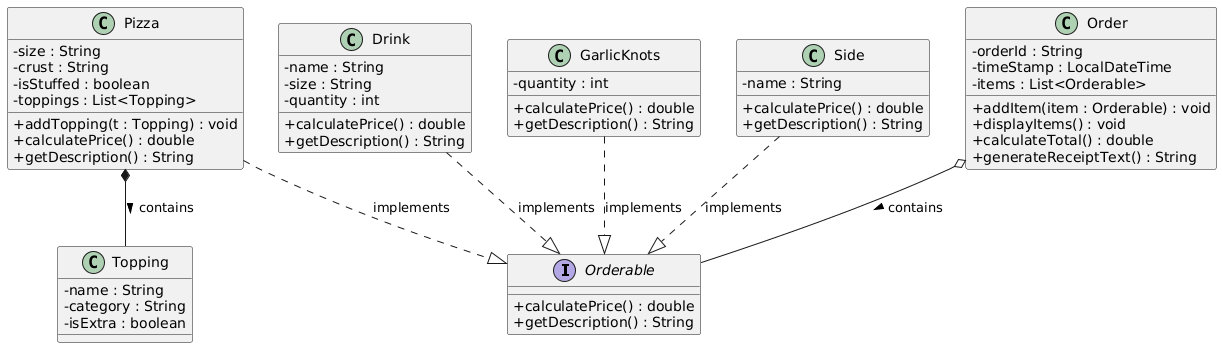
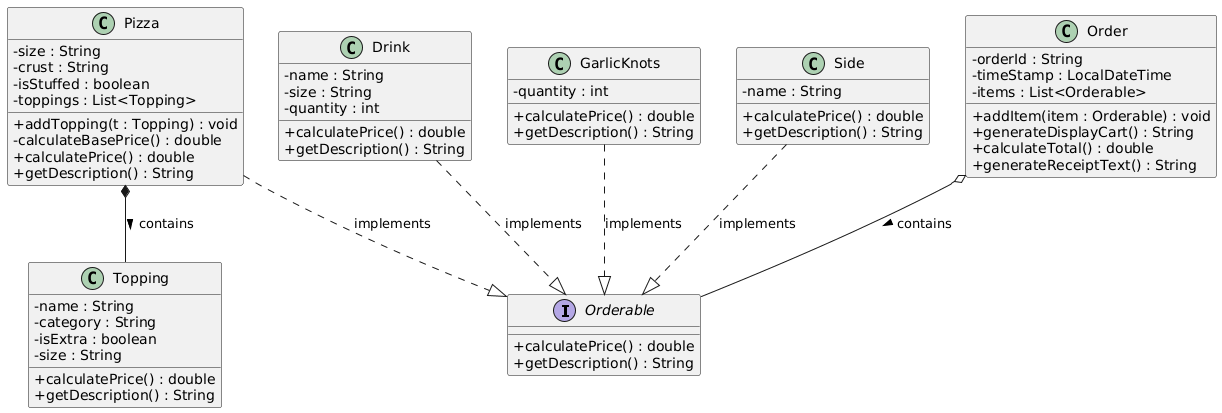
updated the readme added ss and updating diagram and folder structure to reflect final project state as well as adding additional description to explain new features

Changed region(s): [[0.0, 0.0, 1.0, 1.0], [0.2799, 0.5172, 0.3732, 0.6322]]

diff --git a/README.md b/README.md
@@ -2,7 +2,7 @@
 
 A robust, enterprise-grade Point-of-Sale (POS) backend application built in Java. This console-based system allows users to seamlessly build custom pizza orders, manage dynamically priced toppings, add sides and drinks, process cash/card payments, and generate formatted text-file receipts.
 
-This project was developed as a comprehensive capstone for the Application Development track at Year Up United, focusing heavily on Object-Oriented Programming (OOP), modular architecture, and clean code practices.
+This project was developed as a comprehensive capstone for the Application Development track at Year Up United, focusing heavily on Object-Oriented Programming (OOP), modular architecture, clean code practices, and a custom ANSI-colorized user interface.
 
 ---
 
@@ -19,21 +19,27 @@ This project was developed as a comprehensive capstone for the Application Devel
 
 ## 🚀 Features
 
+* **Custom ANSI UI Engine:** Features a fully colorized terminal interface with dynamic cart updates, error state highlighting, and custom ASCII graphics (including startups, checkouts, and order cancellations) managed via a dedicated `Graphics` utility.
 * **Dynamic Pricing Engine:** Calculates complex pricing matrices using Java `switch` expressions, adjusting topping costs based on pizza size, category (meat vs. cheese), and standard/extra portions.
-* **Interactive Console UI:** A fully validated, loop-driven command-line interface that prevents bad user input and guides the customer through a step-by-step ordering process.
+* **Interactive Console Validation:** A fully validated, loop-driven command-line interface that strictly prevents bad user input (like strings instead of numbers) and guides the customer through a step-by-step ordering process.
 * **Automated Receipt Generation:** Utilizes Java File I/O and `LocalDateTime` formatting to automatically generate and save detailed order receipts to a dedicated `data/receipts/` directory.
-* **Checkout & Payment Logic:** Includes a payment processing loop that calculates remaining balances and exact change due before finalizing an order.
+* **Checkout & Payment Logic:** Includes a payment processing loop that calculates running subtotals, remaining balances, and exact change due before finalizing an order.
 
 ---
 
 ## 📸 Application Preview
 
-|                             Main Menu                             |                         Pizza Configuration                          |                          Topping Selection                          |
-|:-----------------------------------------------------------------:|:--------------------------------------------------------------------:|:-------------------------------------------------------------------:|
-| <img src="images/placeholder1.png" width="250" alt="Home Screen"> |   <img src="images/placeholder2.png" width="250" alt="Pizza Menu">   | <img src="images/placeholder3.png" width="250" alt="Toppings Menu"> |
-|                        **Drinks & Sides**                         |                         **Checkout Process**                         |                        **Generated Receipt**                        |
-| <img src="images/placeholder4.png" width="250" alt="Drinks Menu"> | <img src="images/placeholder5.png" width="250" alt="Checkout Logic"> | <img src="images/placeholder6.png" width="250" alt="Receipt File">  |
+| Welcome & Main Menu | Pizza Configuration |                        Drinks Menu                         |
+| :---: | :---: |:----------------------------------------------------------:|
+| <img src="images/ss1.png" width="250" alt="Home Screen"> | <img src="images/ss2.png" width="250" alt="Pizza Menu"> | <img src="images/ss3.png" width="250" alt="Toppings Menu"> |
 
+|                    Garlic Knots Menu                     |                      Checkout Process                       |                    Payment Process                    |
+|:--------------------------------------------------------:|:-----------------------------------------------------------:|:-----------------------------------------------------:|
+| <img src="images/ss4.png" width="250" alt="Drinks Menu"> | <img src="images/ss5.png" width="250" alt="Checkout Logic"> | <img src="images/ss6.png" width="250" alt="Order Up"> |
+
+| System Exit Graphic | Order Cancellation Graphic |
+| :---: | :---: |
+| <img src="images/ss7.png" width="250" alt="Delivery Van Exit"> | <img src="images/ss8.png" width="250" alt="Tombstone Cancel"> |
 
 ---
 
@@ -42,12 +48,12 @@ This project was developed as a comprehensive capstone for the Application Devel
 The application strictly enforces separation of concerns, dividing the user interface, business logic, and data management into dedicated packages.
 
 * **`com.pluralsight.entities` (Domain Layer):** * Contains the core business objects (`Pizza`, `Topping`, `Drink`, `GarlicKnots`, `Side`).
-    * Implements a strict "has-a" **Composition** relationship where `Pizza` objects control the lifecycle of their `Topping` objects.
-    * Utilizes the `Orderable` interface to allow the main `Order` class to aggregate diverse items seamlessly for receipt generation and total calculation.
+  * Implements a strict "has-a" **Composition** relationship where `Pizza` objects control the lifecycle of their `Topping` objects.
+  * Utilizes the `Orderable` interface to allow the main `Order` class to aggregate diverse items seamlessly for receipt generation and total calculation.
 * **`com.pluralsight.ui` (Presentation Layer):**
-    * Contains the `UserInterface`, `Main`, and `Console` utility classes. Handles all user prompts, input validation boundaries, and menu control flow loops.
+  * Contains the `UserInterface`, `Console`, `Graphics`, and `ColorUtils` classes. Handles all user prompts, ASCII rendering, input validation boundaries, and menu control flow loops.
 * **`com.pluralsight.dataManager` (Persistence Layer):**
-    * Contains the `ReceiptFileManager`, a dedicated utility class handling all hard-drive write operations safely using `try-with-resources` to prevent memory leaks.
+  * Contains the `ReceiptFileManager`, a dedicated utility class handling all hard-drive write operations safely using `try-with-resources` to prevent memory leaks.
 
 ---
 
@@ -57,14 +63,16 @@ The application strictly enforces separation of concerns, dividing the user inte
 giga-bite-pizza/
 ├── data/
 │   └── receipts/               # Auto-generated .txt receipts are saved here
-├── images/                    # Application screenshots and UML diagrams
+├── images/                     # Application screenshots and UML diagrams
 │   ├── diagram.png
-│   ├── ss1.png                 # Home Screen
-│   ├── ss2.png                 # Pizza Menu
-│   ├── ss3.png                 # Toppings Menu
-│   ├── ss4.png                 # Drinks Menu
-│   ├── ss5.png                 # Checkout Logic
-│   └── ss6.png                 # Receipt File
+│   ├── ss1.png
+│   ├── ss2.png
+│   ├── ss3.png
+│   ├── ss4.png
+│   ├── ss5.png
+│   ├── ss6.png
+│   ├── ss7.png
+│   └── ss8.png
 └── src/
     └── main/
         └── java/
@@ -79,10 +87,12 @@ giga-bite-pizza/
                 │   ├── Pizza.java
                 │   ├── Side.java
                 │   └── Topping.java
-                └── ui/
-                    ├── Console.java
-                    ├── Main.java
-                    └── UserInterface.java
+                ├── ui/
+                │   ├── ColorUtils.java
+                │   ├── Console.java
+                │   ├── Graphics.java
+                │   └── UserInterface.java
+                └── Main.java
 ```
 
 ---
@@ -97,10 +107,11 @@ giga-bite-pizza/
 
 * **Language:** Java
 * **Core Concepts:** * Object-Oriented Programming (OOP)
-    * Interfaces & Contracts
-    * Composition vs. Aggregation
-    * File Input/Output (I/O) & Directory Management
-    * Encapsulation
+  * Interfaces & Contracts (`Orderable`)
+  * Composition vs. Aggregation
+  * ANSI Escape Codes & Java Text Blocks (`"""`)
+  * File Input/Output (I/O) & Directory Management
+  * Encapsulation & Single Responsibility Principle (SRP)
 
 ---
 
@@ -108,6 +119,6 @@ giga-bite-pizza/
 
 1. Clone the repository to your local machine.
 2. Open the project in IntelliJ IDEA (or your preferred Java IDE).
-3. Run the `Main.java` class located in `src/main/java/com.pluralsight/ui/Main.java`.
-4. Follow the on-screen prompts to build an order.
-5. Upon checkout, view your generated receipt in the `data/receipts/` folder.
+3. Run the `Main.java` class located in `src/main/java/com.pluralsight/Main.java`.
+4. Follow the on-screen prompts to build your order!
+5. Upon successful checkout, view your generated receipt in the `data/receipts/` directory.